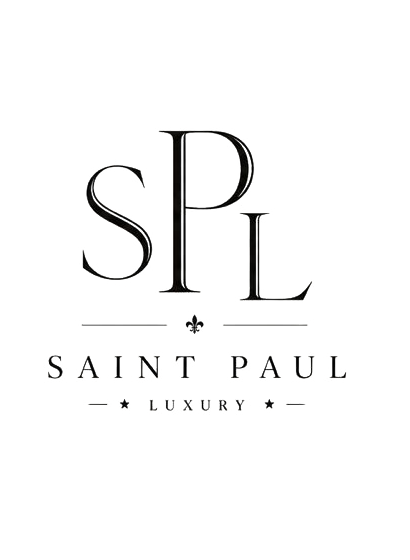
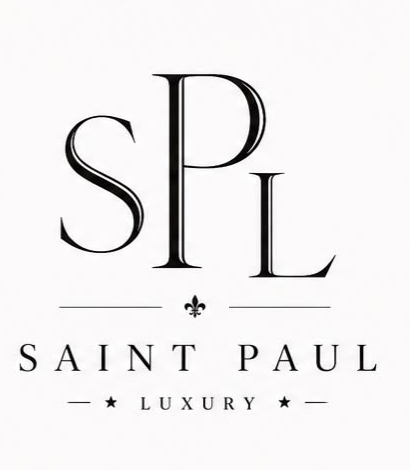
Update the Legacy page's three marks with the client's actual assets
"The marks" section on the Legacy page was showing placeholder icons.
Replaces them with the client-supplied designs:

- "Legacy, in Full" -> the full embroidered wordmark lockup (new file,
  emblem-wordmark.png, kept separate from emblem-master.png since that
  file is still used by the page's dark hero banner and the sitewide
  og:image meta tag, which expect its original line-art character)
- "Three Letters" -> the SPL monogram design (emblem-monogram.png)
- "The Quiet Mark" -> the character-only embroidery mark
  (emblem-signature.png)

Claude-Session: https://claude.ai/code/session_01WrJBQhm7mUhxmDRtzijcgp

diff --git a/legacy.html b/legacy.html
@@ -85,7 +85,7 @@
     </div>
     <div class="proof-grid">
       <div class="proof-tile" style="aspect-ratio:auto; padding:2.2rem 1.4rem;">
-        <img src="assets/images/emblem-master.png" alt="Master emblem" style="width:70px; height:auto;">
+        <img src="assets/images/emblem-wordmark.png" alt="Saint Paul Luxury full wordmark" style="width:150px; height:auto;">
         <p style="max-width:none;"><strong style="display:block; color:var(--ink); font-family:'Cormorant Garamond',serif; font-size:1.05rem; margin-bottom:0.3rem;">Legacy, in Full</strong>Worn by those who go first, so the next person has a path to follow.</p>
       </div>
       <div class="proof-tile" style="aspect-ratio:auto; padding:2.2rem 1.4rem;">
@@ -93,7 +93,7 @@
         <p style="max-width:none;"><strong style="display:block; color:var(--ink); font-family:'Cormorant Garamond',serif; font-size:1.05rem; margin-bottom:0.3rem;">Three Letters</strong>SPL. Nothing extra. Discipline said in as few words as possible.</p>
       </div>
       <div class="proof-tile" style="aspect-ratio:auto; padding:2.2rem 1.4rem; grid-column: span 2;">
-        <img src="assets/images/emblem-signature.png" alt="Signature icon" style="width:70px; height:auto;">
+        <img src="assets/images/emblem-signature.png" alt="Saint Paul Luxury character mark" style="width:70px; height:auto;">
         <p style="max-width:none;"><strong style="display:block; color:var(--ink); font-family:'Cormorant Garamond',serif; font-size:1.05rem; margin-bottom:0.3rem;">The Quiet Mark</strong>Small enough to miss at a glance. Impossible to forget once you've seen it.</p>
       </div>
     </div>
